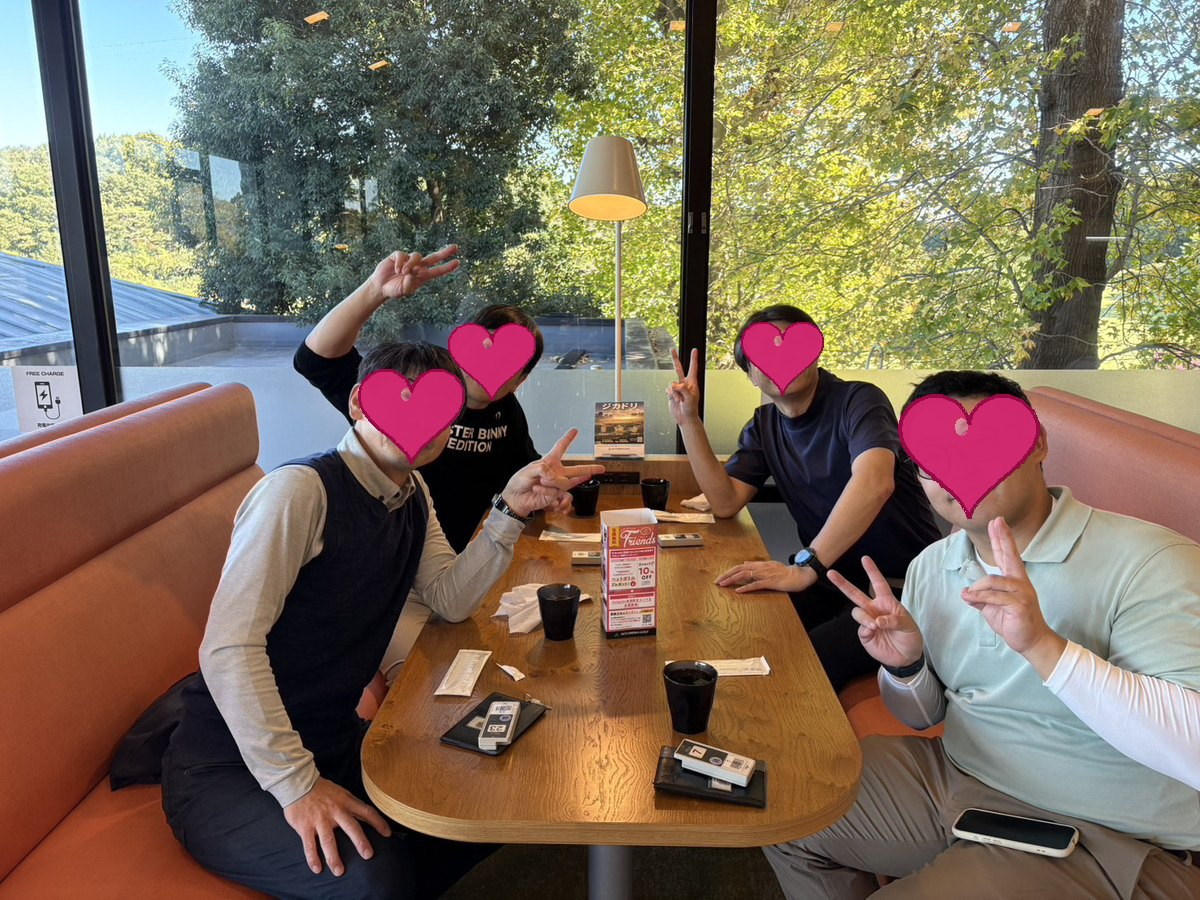
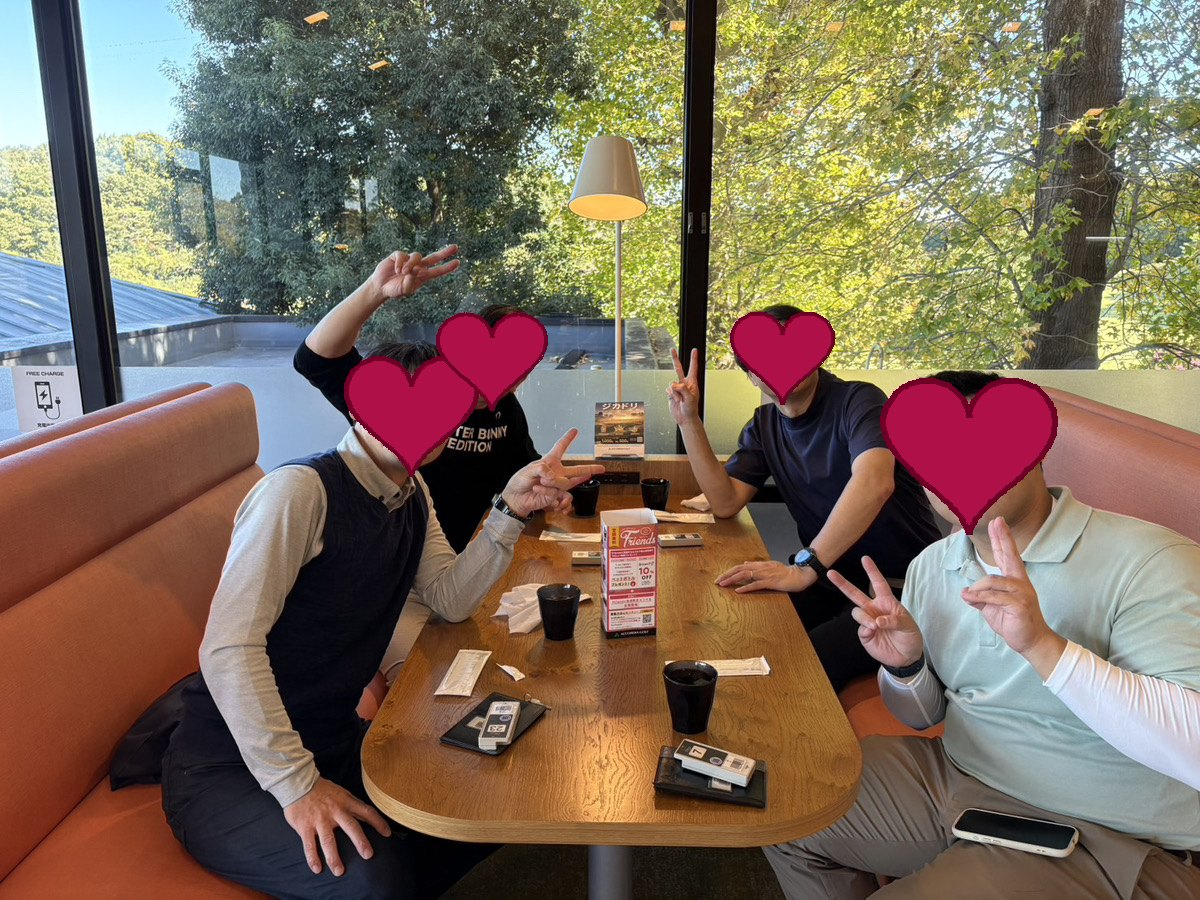
スライド枠を縦長寄りにし、ハートをより濃く大きくする
縦写真が切れず全体表示されるようにする。

Changed region(s): [[0.7092, 0.4044, 0.8942, 0.5911], [0.2775, 0.3422, 0.4625, 0.5289], [0.5858, 0.3422, 0.7092, 0.4667]]

diff --git a/index.html b/index.html
@@ -65,7 +65,7 @@
     background:
       radial-gradient(circle at 18% 22%, rgba(232,169,192,.18), transparent 42%),
       linear-gradient(180deg, rgba(90,31,57,.78), rgba(63,20,42,.90)),
-      url('images/hero.jpg?v=20261119b') center/cover no-repeat;
+      url('images/hero.jpg?v=20261119c') center/cover no-repeat;
     position:relative;overflow:hidden;padding:120px 0 80px;
   }
   .hero::before{content:"";position:absolute;inset:0;opacity:.05;pointer-events:none;background-image:repeating-linear-gradient(115deg,#fff 0 2px,transparent 2px 9px)}
@@ -218,7 +218,11 @@
   /* ---------- Slideshow / Gallery ---------- */
   .scene-show{display:flex;flex-direction:column;gap:16px;margin-top:8px}
   .scene-stage{
-    position:relative;aspect-ratio:16/9;min-height:420px;
+    position:relative;
+    width:min(100%,560px);
+    aspect-ratio:3/4;
+    max-height:85vh;
+    margin:0 auto;
     border:1px solid var(--line);overflow:hidden;
     background:
       radial-gradient(circle at 50% 40%, rgba(232,169,192,.18), transparent 55%),
@@ -293,7 +297,7 @@
     .news-item .more{justify-self:start}
     .defending h3{font-size:2.1rem}
     .scene-show{gap:12px}
-    .scene-stage{min-height:240px}
+    .scene-stage{width:100%;max-height:78vh}
     .scene-side{padding:12px 14px;gap:10px 12px}
     .gal{grid-template-columns:repeat(2,1fr);gap:10px}
     .foot-top{grid-template-columns:1fr;gap:30px}
@@ -463,26 +467,26 @@
     </div>
     <div class="scene-show rv" data-slideshow>
       <div class="scene-stage">
-        <figure class="scene-slide is-active"><img src="images/slideshow/slide-01.jpg?v=20261119b" alt="クラブハウスでの集合"></figure>
-        <figure class="scene-slide"><img src="images/slideshow/slide-02.jpg?v=20261119b" alt="ラウンジでの記念写真"></figure>
-        <figure class="scene-slide"><img src="images/slideshow/slide-03.jpg?v=20261119b" alt="クラブハウスでの交流"></figure>
-        <figure class="scene-slide"><img src="images/slideshow/slide-04.jpg?v=20261119b" alt="コースでの一コマ"></figure>
-        <figure class="scene-slide"><img src="images/slideshow/slide-05.jpg?v=20261119b" alt="グリーンでの祝福"></figure>
-        <figure class="scene-slide"><img src="images/slideshow/slide-06.jpg?v=20261119b" alt="プレー中の様子"></figure>
-        <figure class="scene-slide"><img src="images/slideshow/slide-07.jpg?v=20261119b" alt="ティーショットの一コマ"></figure>
-        <figure class="scene-slide"><img src="images/slideshow/slide-08.jpg?v=20261119b" alt="参加者の集合写真"></figure>
-        <figure class="scene-slide"><img src="images/slideshow/slide-09.jpg?v=20261119b" alt="ラウンドの思い出"></figure>
-        <figure class="scene-slide"><img src="images/slideshow/slide-10.jpg?v=20261119b" alt="コースサイドの風景"></figure>
-        <figure class="scene-slide"><img src="images/slideshow/slide-11.jpg?v=20261119b" alt="クラブハウスでの一幕"></figure>
-        <figure class="scene-slide"><img src="images/slideshow/slide-12.jpg?v=20261119b" alt="フェアウェイでのショット"></figure>
-        <figure class="scene-slide"><img src="images/slideshow/slide-13.jpg?v=20261119b" alt="参加者同士の交流"></figure>
-        <figure class="scene-slide"><img src="images/slideshow/slide-14.jpg?v=20261119b" alt="プレー後の様子"></figure>
-        <figure class="scene-slide"><img src="images/slideshow/slide-15.jpg?v=20261119b" alt="記念の一枚"></figure>
-        <figure class="scene-slide"><img src="images/slideshow/slide-16.jpg?v=20261119b" alt="ラウンド風景"></figure>
-        <figure class="scene-slide"><img src="images/slideshow/slide-17.jpg?v=20261119b" alt="笑顔のスナップ"></figure>
-        <figure class="scene-slide"><img src="images/slideshow/slide-18.jpg?v=20261119b" alt="コンペの一コマ"></figure>
-        <figure class="scene-slide"><img src="images/slideshow/slide-19.jpg?v=20261119b" alt="集合の記念写真"></figure>
-        <figure class="scene-slide"><img src="images/slideshow/slide-20.jpg?v=20261119b" alt="コースの景色"></figure>
+        <figure class="scene-slide is-active"><img src="images/slideshow/slide-01.jpg?v=20261119c" alt="クラブハウスでの集合"></figure>
+        <figure class="scene-slide"><img src="images/slideshow/slide-02.jpg?v=20261119c" alt="ラウンジでの記念写真"></figure>
+        <figure class="scene-slide"><img src="images/slideshow/slide-03.jpg?v=20261119c" alt="クラブハウスでの交流"></figure>
+        <figure class="scene-slide"><img src="images/slideshow/slide-04.jpg?v=20261119c" alt="コースでの一コマ"></figure>
+        <figure class="scene-slide"><img src="images/slideshow/slide-05.jpg?v=20261119c" alt="グリーンでの祝福"></figure>
+        <figure class="scene-slide"><img src="images/slideshow/slide-06.jpg?v=20261119c" alt="プレー中の様子"></figure>
+        <figure class="scene-slide"><img src="images/slideshow/slide-07.jpg?v=20261119c" alt="ティーショットの一コマ"></figure>
+        <figure class="scene-slide"><img src="images/slideshow/slide-08.jpg?v=20261119c" alt="参加者の集合写真"></figure>
+        <figure class="scene-slide"><img src="images/slideshow/slide-09.jpg?v=20261119c" alt="ラウンドの思い出"></figure>
+        <figure class="scene-slide"><img src="images/slideshow/slide-10.jpg?v=20261119c" alt="コースサイドの風景"></figure>
+        <figure class="scene-slide"><img src="images/slideshow/slide-11.jpg?v=20261119c" alt="クラブハウスでの一幕"></figure>
+        <figure class="scene-slide"><img src="images/slideshow/slide-12.jpg?v=20261119c" alt="フェアウェイでのショット"></figure>
+        <figure class="scene-slide"><img src="images/slideshow/slide-13.jpg?v=20261119c" alt="参加者同士の交流"></figure>
+        <figure class="scene-slide"><img src="images/slideshow/slide-14.jpg?v=20261119c" alt="プレー後の様子"></figure>
+        <figure class="scene-slide"><img src="images/slideshow/slide-15.jpg?v=20261119c" alt="記念の一枚"></figure>
+        <figure class="scene-slide"><img src="images/slideshow/slide-16.jpg?v=20261119c" alt="ラウンド風景"></figure>
+        <figure class="scene-slide"><img src="images/slideshow/slide-17.jpg?v=20261119c" alt="笑顔のスナップ"></figure>
+        <figure class="scene-slide"><img src="images/slideshow/slide-18.jpg?v=20261119c" alt="コンペの一コマ"></figure>
+        <figure class="scene-slide"><img src="images/slideshow/slide-19.jpg?v=20261119c" alt="集合の記念写真"></figure>
+        <figure class="scene-slide"><img src="images/slideshow/slide-20.jpg?v=20261119c" alt="コースの景色"></figure>
       </div>
       <div class="scene-side">
         <div class="scene-count" data-count>1 / 20</div>
@@ -492,12 +496,12 @@
       </div>
     </div>
     <div class="gal rv">
-      <div class="gal-item"><img src="images/slideshow/slide-04.jpg?v=20261119b" alt="コースでの一コマ"></div>
-      <div class="gal-item"><img src="images/slideshow/slide-05.jpg?v=20261119b" alt="グリーンでの祝福"></div>
-      <div class="gal-item"><img src="images/slideshow/slide-02.jpg?v=20261119b" alt="ラウンジでの記念写真"></div>
-      <div class="gal-item"><img src="images/slideshow/slide-01.jpg?v=20261119b" alt="クラブハウスでの集合"></div>
-      <div class="gal-item"><img src="images/slideshow/slide-12.jpg?v=20261119b" alt="フェアウェイでのショット"></div>
-      <div class="gal-item"><img src="images/slideshow/slide-20.jpg?v=20261119b" alt="コースの景色"></div>
+      <div class="gal-item"><img src="images/slideshow/slide-04.jpg?v=20261119c" alt="コースでの一コマ"></div>
+      <div class="gal-item"><img src="images/slideshow/slide-05.jpg?v=20261119c" alt="グリーンでの祝福"></div>
+      <div class="gal-item"><img src="images/slideshow/slide-02.jpg?v=20261119c" alt="ラウンジでの記念写真"></div>
+      <div class="gal-item"><img src="images/slideshow/slide-01.jpg?v=20261119c" alt="クラブハウスでの集合"></div>
+      <div class="gal-item"><img src="images/slideshow/slide-12.jpg?v=20261119c" alt="フェアウェイでのショット"></div>
+      <div class="gal-item"><img src="images/slideshow/slide-20.jpg?v=20261119c" alt="コースの景色"></div>
     </div>
   </div>
 </section>
@@ -511,7 +515,7 @@
     </div>
     <div class="venue-grid rv">
       <div class="venue-photo">
-        <img src="images/venue.jpg?v=20261119b" alt="関東国際カントリークラブのコースとクラブハウス"
+        <img src="images/venue.jpg?v=20261119c" alt="関東国際カントリークラブのコースとクラブハウス"
              style="width:100%;height:100%;object-fit:cover;">
       </div>
       <div class="venue-info">
